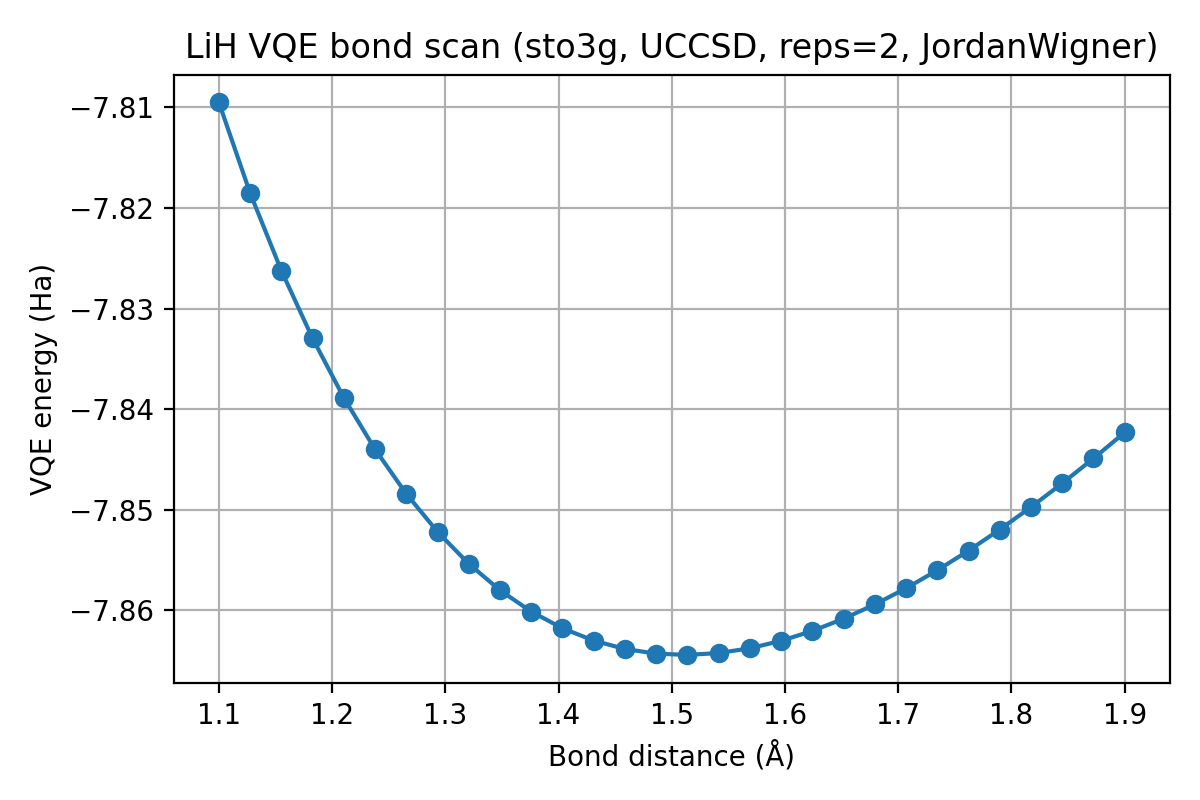
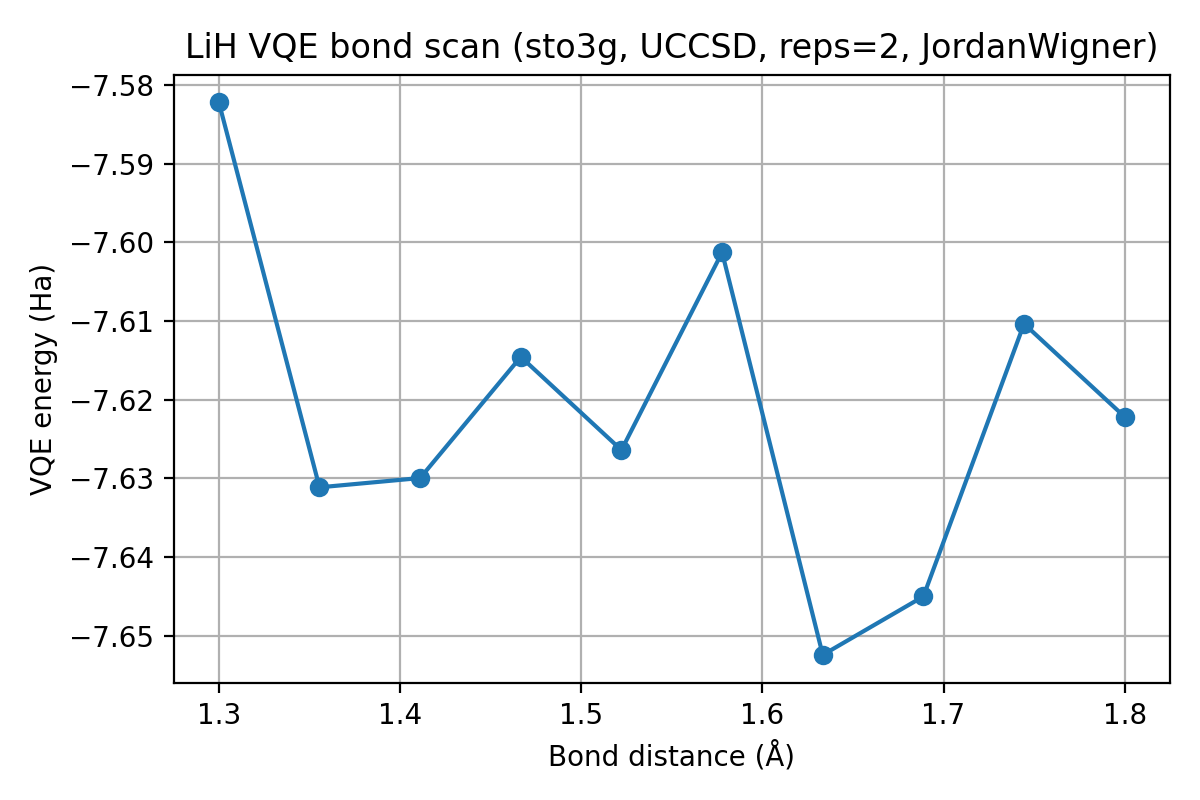
Update bond scan data and implement noisy estimator for VQE functions

diff --git a/modules/jobs.py b/modules/jobs.py
@@ -24,7 +24,7 @@ from modules.joint_optimization import (
 )
 from modules.molecule import MoleculeSpec, build_molecule_problem
 from modules.qubit_hamiltonian import map_to_qubit_hamiltonian
-from modules.vqe import run_vqe_single_point
+from modules.vqe import run_vqe_single_point, make_noisy_estimator
 
 
 IMAGES_DIR = Path("images")
@@ -48,29 +48,6 @@ def optimizer_metadata(optimizer_or_builder: Any) -> dict[str, Any]:
     if isinstance(settings, dict):
         metadata["settings"] = {str(k): json_safe(v) for k, v in settings.items()}
     return metadata
-
-
-def make_noisy_estimator(
-    *, scale: float, p1_base: float, p2_base: float
-) -> EstimatorV2:
-    """Create an EstimatorV2 configured with a scaled depolarizing noise model."""
-    noise_model = NoiseModel()
-    p1 = float(scale) * p1_base
-    p2 = float(scale) * p2_base
-
-    noise_model.add_all_qubit_quantum_error(
-        depolarizing_error(p1, 1), ["x", "sx", "rx", "ry", "rz"]
-    )
-    noise_model.add_all_qubit_quantum_error(depolarizing_error(p2, 2), ["cx", "cz"])
-
-    return EstimatorV2(
-        options={
-            "backend_options": {
-                "method": "density_matrix",
-                "noise_model": noise_model,
-            }
-        }
-    )
 
 
 def run_h2_noise_benchmark() -> dict[str, Any]:
@@ -769,7 +746,7 @@ def run_lih_bond_scan() -> dict[str, Any]:
         "optimizer_rhobeg": 1.0,
         "optimizer_tol": 1e-6,
         "seed": 42,
-        "distances": np.linspace(1.1, 1.9, 30),
+        "distances": np.linspace(1.4, 1.9, 10),
     }
 
     distances = lih_scan_config["distances"]

diff --git a/modules/vqe.py b/modules/vqe.py
@@ -25,6 +25,30 @@ from qiskit_aer.primitives import EstimatorV2, SamplerV2
 from qiskit_algorithms.optimizers import COBYLA
 from qiskit.transpiler.preset_passmanagers import generate_preset_pass_manager
 from qiskit_algorithms import MinimumEigensolverResult
+from qiskit_aer.noise import NoiseModel, depolarizing_error
+
+
+def make_noisy_estimator(
+    *, scale: float, p1_base: float, p2_base: float
+) -> EstimatorV2:
+    """Create an EstimatorV2 configured with a scaled depolarizing noise model."""
+    noise_model = NoiseModel()
+    p1 = float(scale) * p1_base
+    p2 = float(scale) * p2_base
+
+    noise_model.add_all_qubit_quantum_error(
+        depolarizing_error(p1, 1), ["x", "sx", "rx", "ry", "rz"]
+    )
+    noise_model.add_all_qubit_quantum_error(depolarizing_error(p2, 2), ["cx", "cz"])
+
+    return EstimatorV2(
+        options={
+            "backend_options": {
+                "method": "density_matrix",
+                "noise_model": noise_model,
+            }
+        }
+    )
 
 
 def _build_measurement_circuit_for_pauli(base_circuit: Any, pauli_label: str) -> Any:
@@ -252,7 +276,7 @@ def run_vqe_single_point(
 
     # Default primitives: use shot-based sampler if provided, else estimator.
     if sampler is None and estimator is None:
-        estimator = EstimatorV2()
+        estimator = make_noisy_estimator(scale=0.2, p1_base=0.001, p2_base=0.01)
     if sampler is None and shots is not None:
         raise ValueError("shots was set but sampler=None; provide sampler=SamplerV2()")
     if sampler is None and estimator is None:

diff --git a/main.py b/main.py
@@ -20,8 +20,8 @@ if __name__ == "__main__":
     # run_h2_joint_comparison()
     
     # Bond scans
-    run_h2_bond_scan()
-    # run_lih_bond_scan()
+    # run_h2_bond_scan()
+    run_lih_bond_scan()
     # run_hf_bond_scan()
     
     # Joint optimizations

diff --git a/modules/bond_scan.py b/modules/bond_scan.py
@@ -41,7 +41,6 @@ from qiskit_nature.second_q.mappers import (
     BravyiKitaevMapper,
 )
 
-
 def ensure_dir(path: str | Path) -> Path:
     p = Path(path)
     p.mkdir(parents=True, exist_ok=True)
